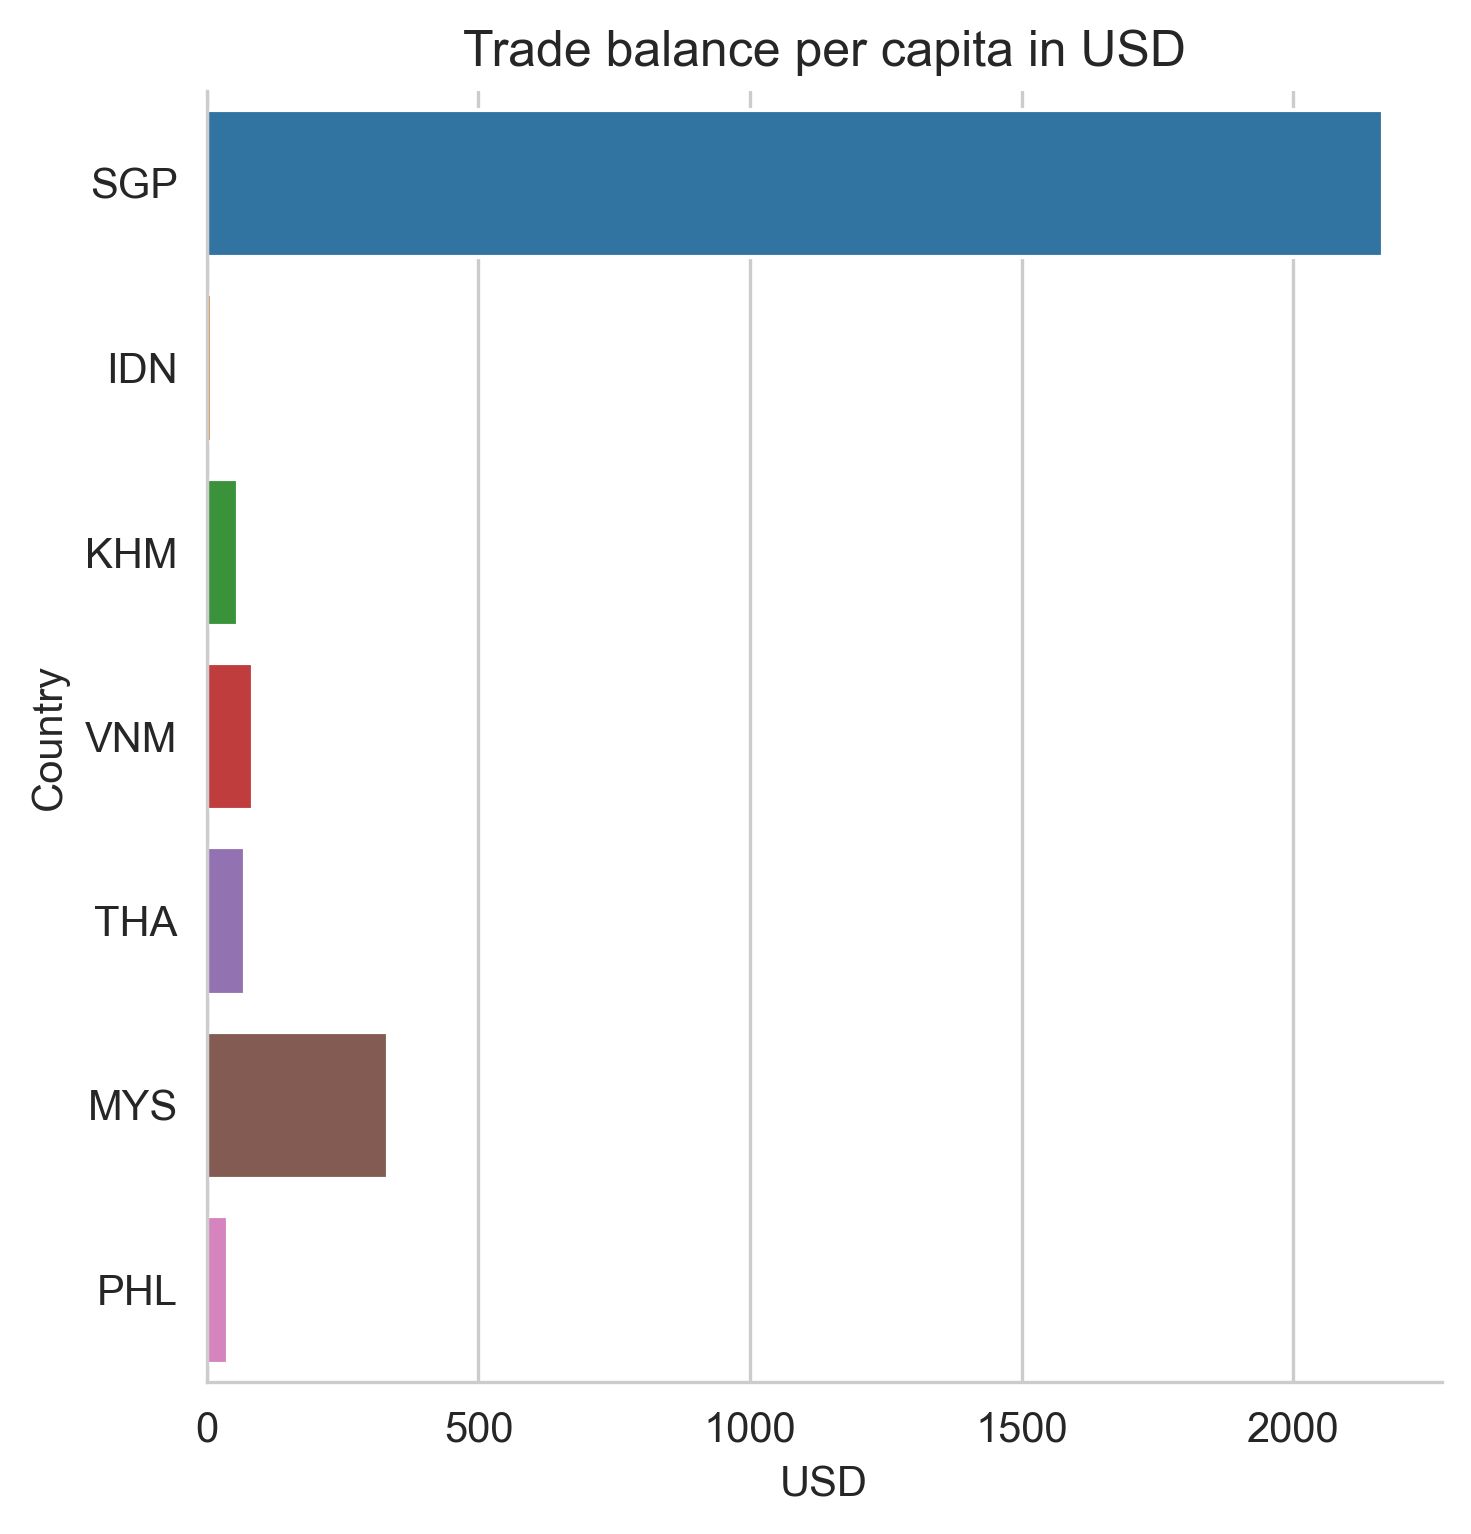
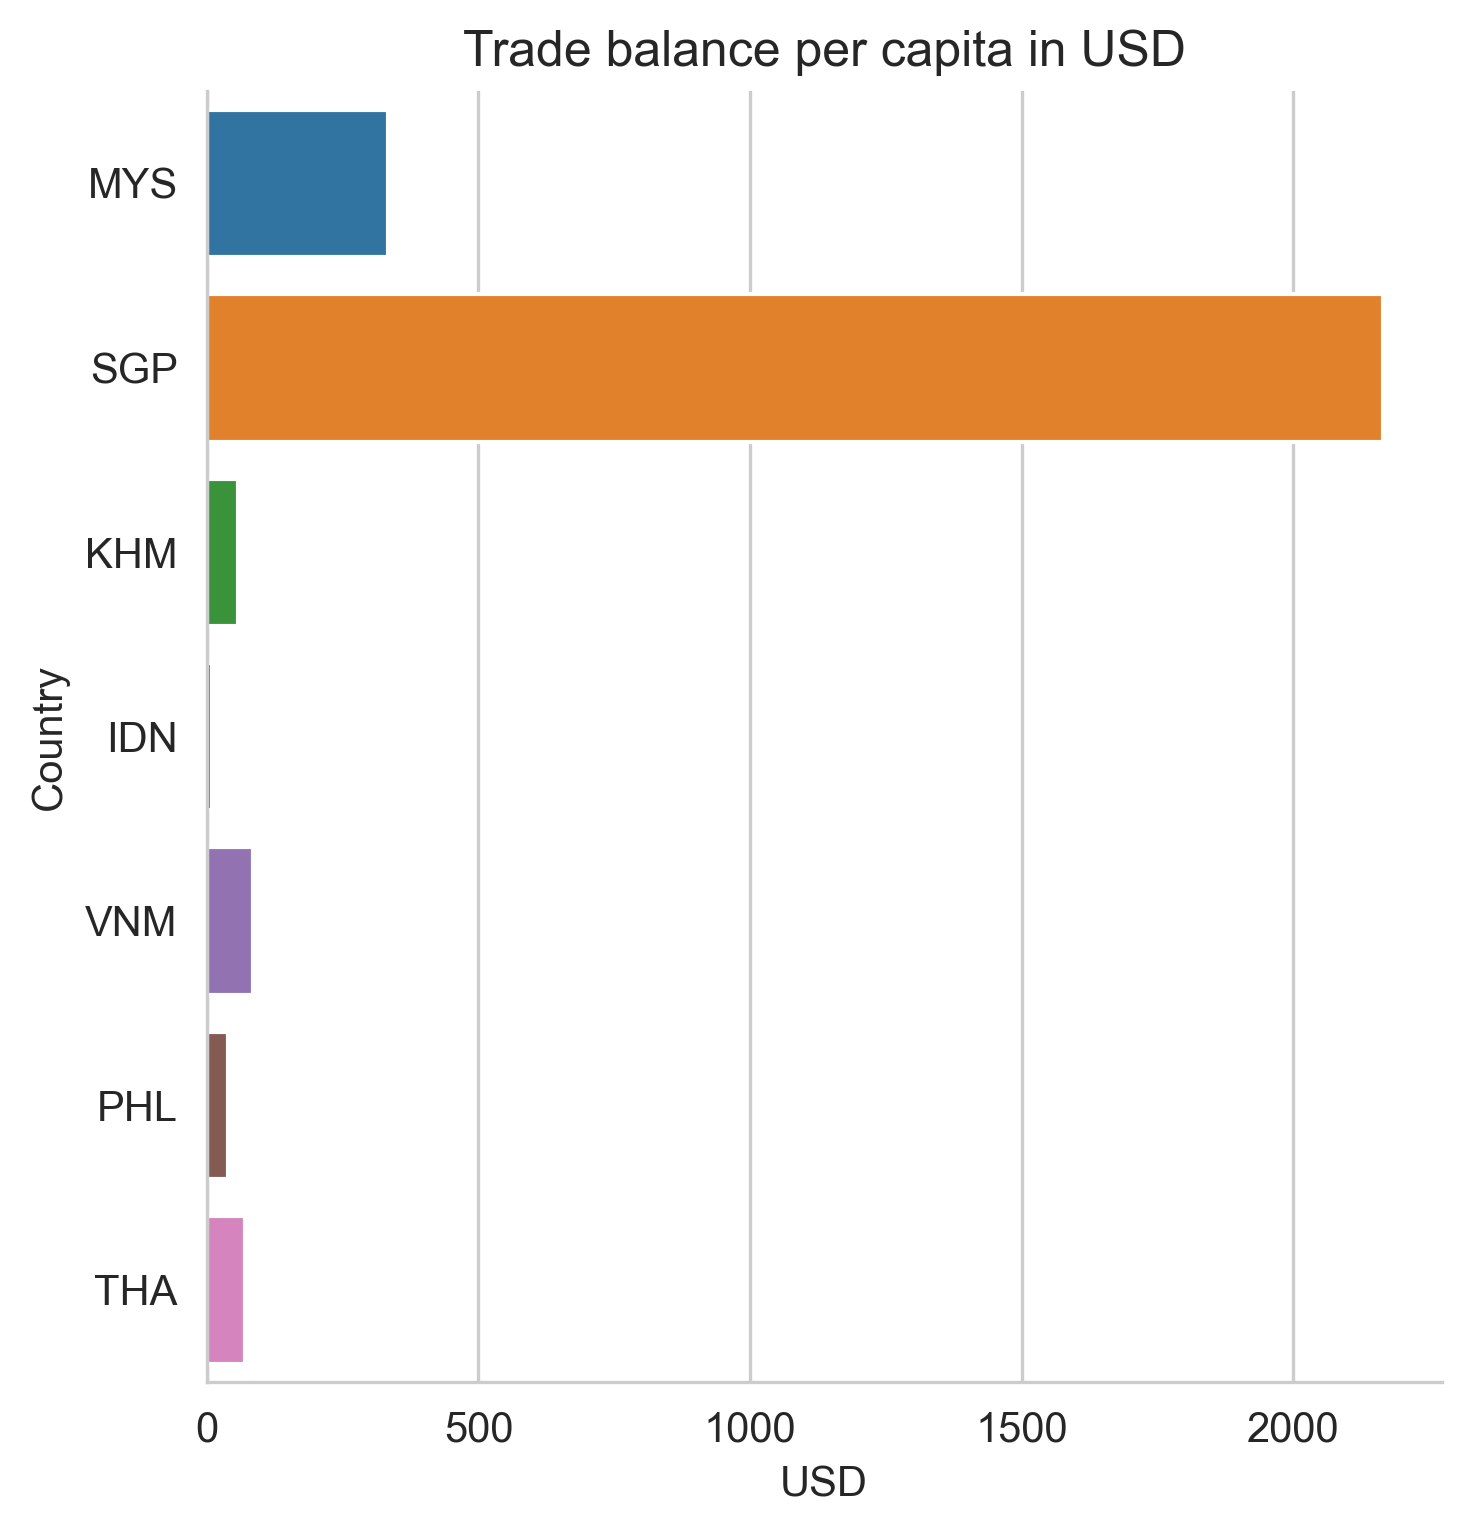
update remote

diff --git a/python/plot_treemaps_exports.py b/python/plot_treemaps_exports.py
@@ -353,7 +353,7 @@ def main():
 
     fig, ax = plt.subplots(figsize=(5, 3))
     sns.set_style("whitegrid")
-    sns.factorplot(x='avg_trade_bal_per_capita', y='location_code', data=all_countries_df.to_pandas(), kind='bar')
+    sns.factorplot(x='avg_trade_bal_per_capita', y='location_code', data=all_countries_df.to_pandas(), kind='bar', height=10)
     plt.title('Trade balance per capita in USD')
     plt.xlabel('USD')
     plt.ylabel('Country')
